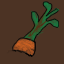
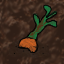
image and sound stuff
new sutff

diff --git a/src/Prototype.js b/src/Prototype.js
@@ -22,6 +22,7 @@ var backBtn; //button for back to incremental level
 var xImg;
 var harvest = new Audio('../wav/Harvest.wav');
 var bonus = new Audio('../wav/Bonus.wav');
+var planting = new Audio('../wav/Planting.wav');
 var baseImg;
 var shopImg;
 var sellImg;
@@ -137,7 +138,7 @@ function startFunc(){
 	backBtn.src = "../img/BackBtn.png";
 	mapBtn.src = "../img/map.png";
 	mapSelection.src = "../img/selections.png";
-	baseImg.src = "../img/Soil.png";
+	baseImg.src = "../img/Soil2.png";
 	sellImg.src = "../img/Sell.png";
 	buyImg.src = "../img/Buy.png";
 	eatImg.src = "../img/Eat.png";
@@ -159,15 +160,15 @@ function startFunc(){
 		plantImg[2][i] = carImg;
 		plantImg[0][i] = potImg;
 	}
-	plantImg[0][0].src = "../img/Plant0.png"; // these are the src for each plant's life cycle, 0 is potato, 1 is tomato, 2 is carrot
-	plantImg[1][0].src = "../img/Plant0.png";
-	plantImg[2][0].src = "../img/Plant0.png";
-	plantImg[0][1].src = "../img/Plant1.png";
-	plantImg[1][1].src = "../img/Plant1.png";
-	plantImg[2][1].src = "../img/Plant1.png";
-	plantImg[0][2].src = "../img/Plant2.png";
-	plantImg[1][2].src = "../img/Plant2.png";
-	plantImg[2][2].src = "../img/Plant2.png";
+	plantImg[0][0].src = "../img/Plant0_2.png"; // these are the src for each plant's life cycle, 0 is potato, 1 is tomato, 2 is carrot
+	plantImg[1][0].src = "../img/Plant0_2.png";
+	plantImg[2][0].src = "../img/Plant0_2.png";
+	plantImg[0][1].src = "../img/Plant1_2.png";
+	plantImg[1][1].src = "../img/Plant1_2.png";
+	plantImg[2][1].src = "../img/Plant1_2.png";
+	plantImg[0][2].src = "../img/Plant2_2.png";
+	plantImg[1][2].src = "../img/Plant2_2.png";
+	plantImg[2][2].src = "../img/Plant2_2.png";
 	plantImg[0][3].src = "../img/Potato2.png";
 	plantImg[1][3].src = "../img/Tomato2.png";
 	plantImg[2][3].src = "../img/Carrot2.png";
@@ -300,6 +301,7 @@ function onClick(e){
 										farmPlot[i][j].growing = true;
 										farmPlot[i][j].img = plantImg[selected][0];
 										seeds[selected] -= 1; // removes the selected seed type from player inventory
+										planting.play();
 									}
 									if (farmPlot[i][j].harvest == true){ //checks if the square is harvestable, takes the plant into the inventory and returns to it's start state
 
